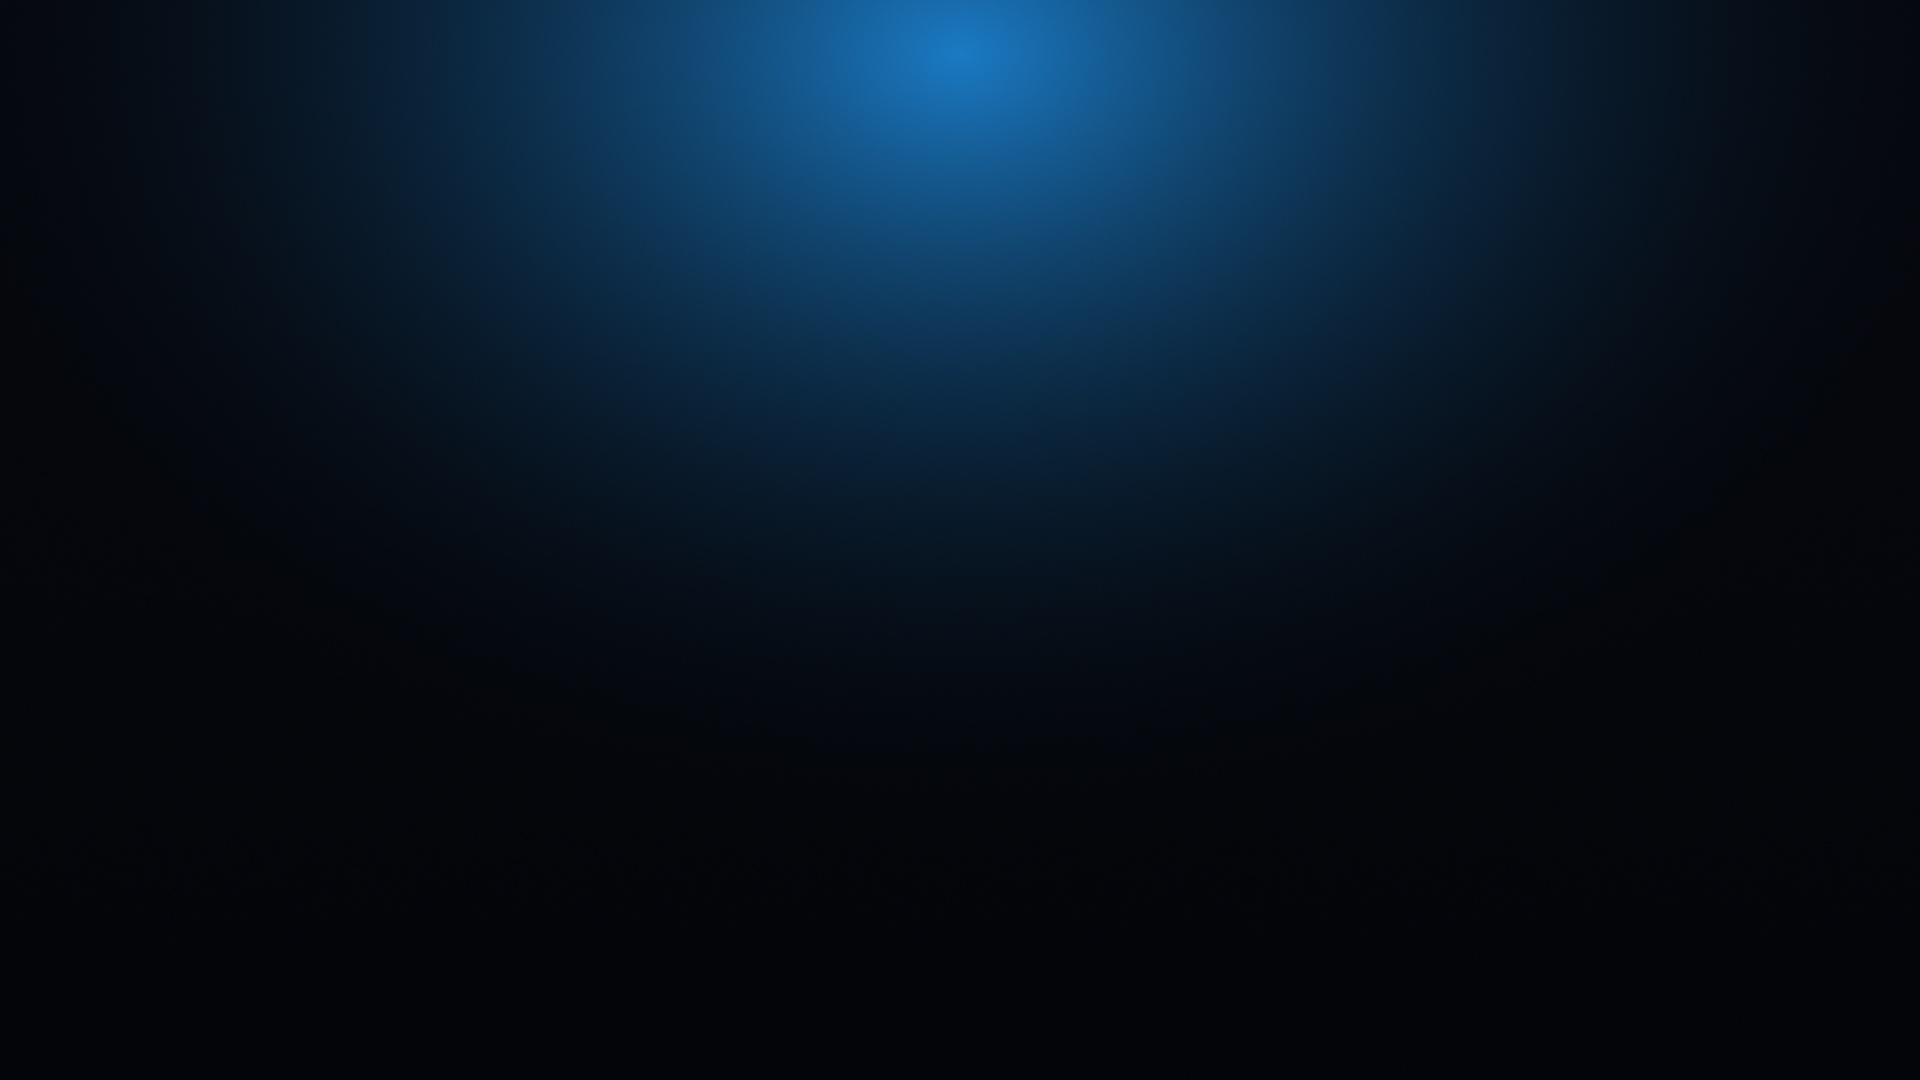
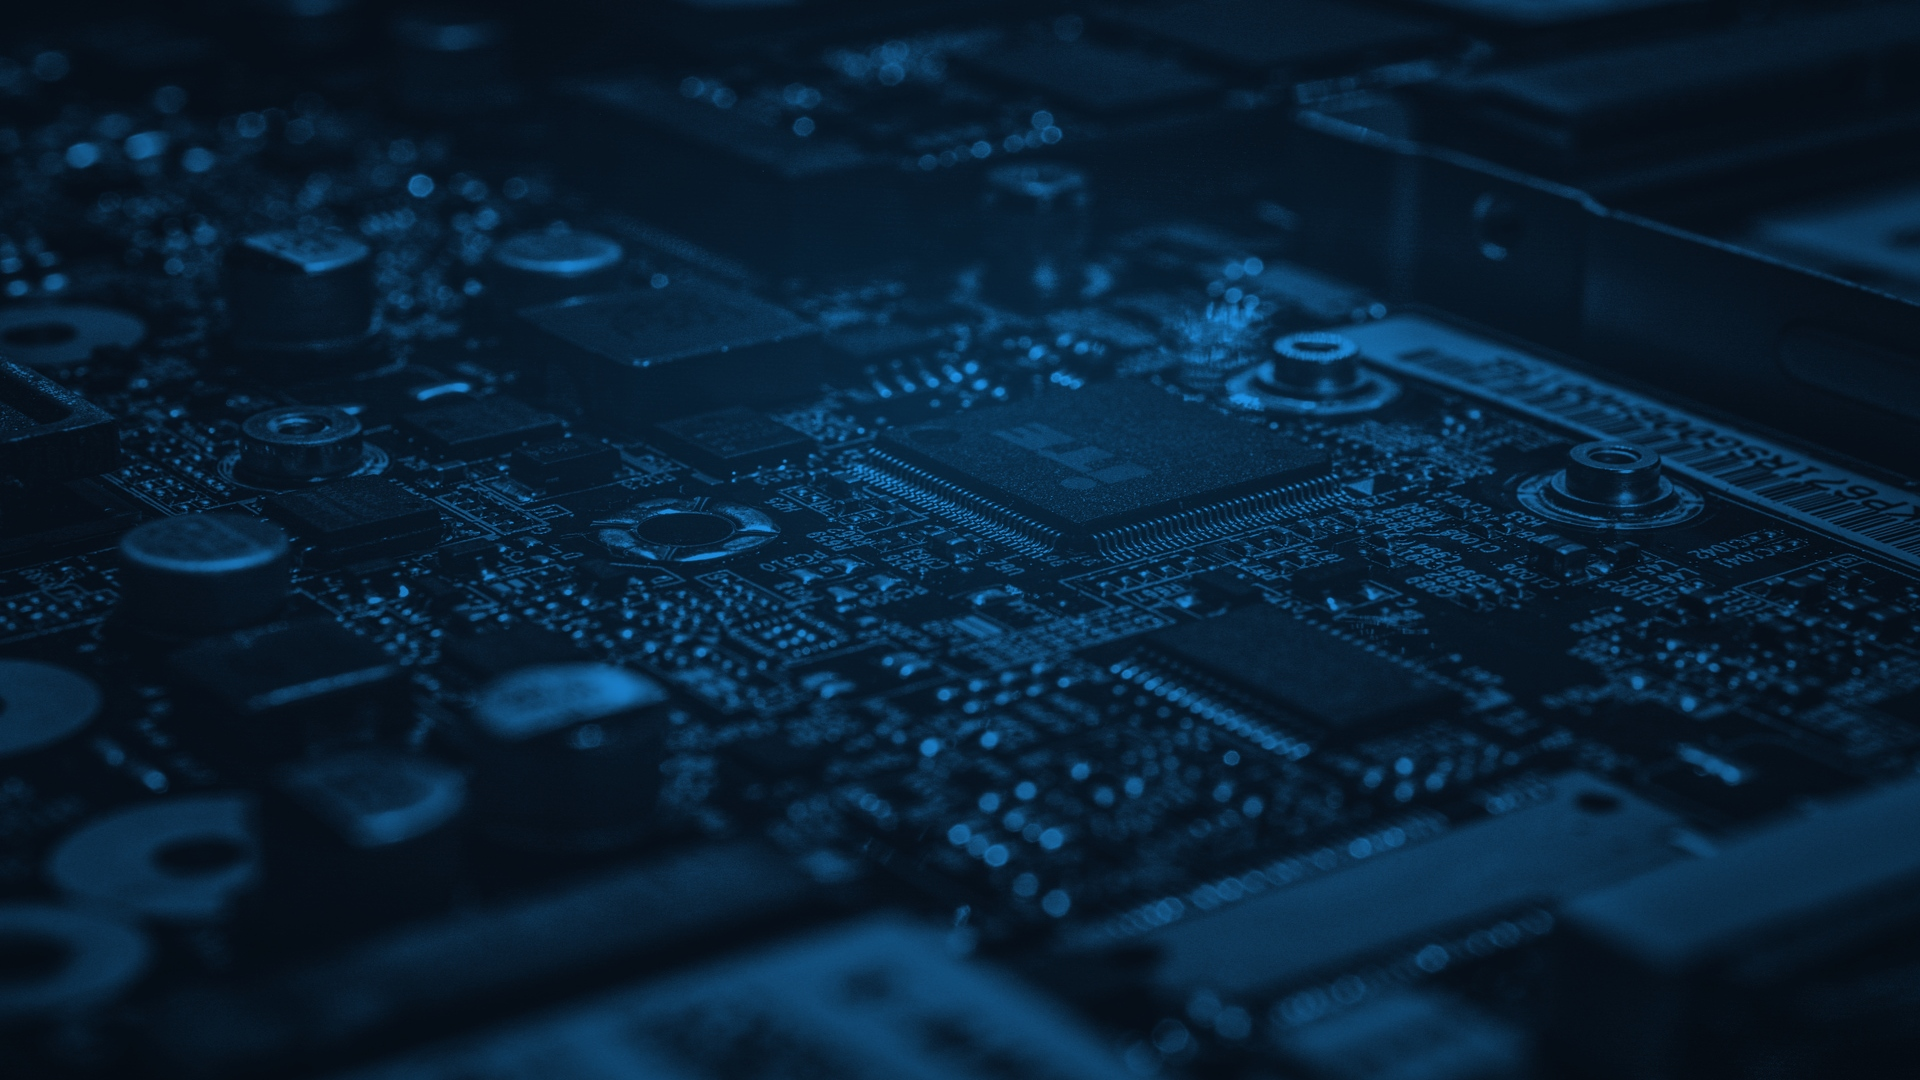
feat(hero-cta): set sharp software build background for hero with overlays removed, and set premium dark circuit background for CTA

diff --git a/frontend/src/components/sections/Hero.jsx b/frontend/src/components/sections/Hero.jsx
@@ -42,15 +42,14 @@ export default function Hero() {
       aria-label="Hero"
       className="relative flex min-h-screen flex-col justify-between overflow-hidden bg-[#06080E] pt-24 lg:pt-28"
       style={{
-        backgroundImage: 'url(/images/skills-hero-bg.jpg)',
+        backgroundImage: 'url(/images/hero-software-build.jpg)',
         backgroundSize: 'cover',
         backgroundPosition: 'center top',
         backgroundRepeat: 'no-repeat',
       }}
     >
-      <div className="pointer-events-none absolute inset-0 bg-[#06080E]/85" />
-      <div className="pointer-events-none absolute -left-64 top-0 h-[500px] w-[500px] rounded-full bg-[#0284C7]/15 blur-[120px]" />
-      <div className="pointer-events-none absolute -right-48 top-20 h-[400px] w-[400px] rounded-full bg-[#38BDF8]/10 blur-[100px]" />
+      <div className="pointer-events-none absolute inset-0 bg-gradient-to-r from-[#06080E]/50 via-transparent to-transparent" />
+      <div className="pointer-events-none absolute bottom-0 left-0 right-0 h-20 bg-gradient-to-t from-[#06080E] to-transparent" />
 
       <div className="container-page relative z-10 my-auto py-10 lg:py-14">
         <div className="grid items-center gap-8 lg:grid-cols-2 lg:gap-16">
